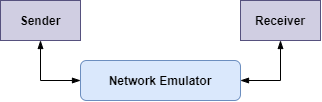
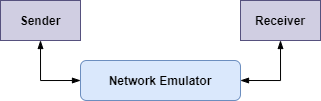
Styling.

diff --git a/projects/rdtProtocol.html b/projects/rdtProtocol.html
@@ -42,13 +42,13 @@
                 (Winter 2021) at
                 Waterloo.
             </p>
-            <p>In this assignment, I needed to implement a <strong>Reliable Data Transfer (RDT)</strong> protocol such
+            <p>In this assignment, I needed to implement a <strong class="keyword">Reliable Data Transfer (RDT)</strong>
+                protocol such
                 that a sender could use this protocol to faithfully transfer a text file to a receiver via an unreliable
                 network.</p>
-            <p>The programming language I used for this assignment is <strong>Java</strong>.<br>
+            <p>The programming language I used for this assignment is <strong class="keyword">Java</strong>.<br>
                 (I believe I was one of the few students, perhaps the only one, who used Java — most others used
-                Python…)
-            </p>
+                Python…)</p>
             <p>To implement and test this protocol, I had to write the following three programs:</p>
             <ul>
                 <li>Sender</li>
@@ -60,26 +60,25 @@
             <h3>Reliable Data Transfer (RDT) Protocol</h3>
             <p>The RDT protocol needs to:</p>
             <ul>
-                <li>Handle network errors (i.e., packet loss)</li>
-                <li>Packet Reordering</li>
-                <li>Duplicate packets</li>
+                <li>handle network errors (i.e., packet loss)</li>
+                <li>packet reordering</li>
+                <li>duplicate packets</li>
             </ul>
 
             <p>For simplicity, this protocol is unidirectional:</p>
             <ul>
-                <li>Text file data will only flow from the sender to the receiver</li>
-                <li>The <strong>acknowledgments (ACKs)</strong> will only flow from the receiver to the sender</li>
+                <li>Text file data will only flow from the sender to the receiver.</li>
+                <li>The <strong class="keyword">acknowledgments (ACKs)</strong> will only flow from the receiver to the
+                    sender.</li>
             </ul>
 
             <p>When the sender wants to send packets to the receiver, he/she will send them to the network emulator
                 instead of the receiver directly.<br>
                 Then, the network emulator will send those packets to the receiver.<br>
-                However, the network emulator may discard the packets randomly.
-            </p>
+                However, the network emulator may discard the packets randomly.</p>
             <p>Similarly, the receiver will send ACKs to the network emulator, the network emulator will then send those
                 ACKs to the sender.<br>
-                The network emulator will also discard those ACKs randomly.
-            </p>
+                The network emulator will also discard those ACKs randomly.</p>
             <img src="../img/RDTprotocol/RDT_1.png" class="center">
             <br>
 
@@ -99,13 +98,11 @@ String data;</pre>
             </ol>
 
             <p><code>seqnum</code> represents the sequence number of the packet.<br>
-                The first packet should have <code>seqnum = 0</code>.
-            </p>
+                The first packet should have <code>seqnum = 0</code>.</p>
 
-            <p><code>length</code>is the number of characters in the <code>data</code> field.<br>
+            <p><code>length</code> is the number of characters in the <code>data</code> field.<br>
                 The range of it is between 0 and 500 (inclusive).<br>
-                For ACK or EOT packet, the length should be 0.
-            </p>
+                For ACK or EOT packet, the length should be 0.</p>
 
             <p>To allow different programs to receive the same type of object, the <code>Packet</code> class needs to
                 implement the
@@ -115,7 +112,7 @@ String data;</pre>
             <p>To create a <code>Packet</code> object for a data packet, we do</p>
             <pre
                 class="prettyprint linenums lang-java">Packet packet = new Packet(int type, int seqnum, String data);</pre>
-            <br>
+
 
             <p>To create a <code>Packet</code> object for an ACK or EOT packet, we do</p>
             <pre class="prettyprint linenums lang-java">Packet packet = new Packet(int type, int seqnum);</pre>
@@ -134,9 +131,9 @@ String data;</pre>
                 class="prettyprint linenums lang-java">UDP udp = new UDP(String destIP, String destPort, String sourcePort, int timeout);</pre>
             <p>where</p>
             <ul>
-                <li><code>destIP</code> is the the destination IP address</li>
-                <li><code>destPort</code> is the port number used by the destination</li>
-                <li><code>sourcePort</code> is the port number used by the source</li>
+                <li><code>destIP</code> is the the destination IP address,</li>
+                <li><code>destPort</code> is the port number used by the destination,</li>
+                <li><code>sourcePort</code> is the port number used by the source, and</li>
                 <li><code>timeout</code> is the timeout of a packet (optional, default value is 0)</li>
             </ul>
 
@@ -147,16 +144,13 @@ String data;</pre>
             <p>If the IP address for the destination host cannot be found, an error will also be returned.</p>
 
             <p>After creating a <code>UDP</code> object, we can start the UDP connection between the source and the
-                destination.
-            </p>
+                destination.</p>
             <pre class="prettyprint linenums lang-java">udp.startConnection();</pre>
-            <br>
 
             <p>Then, we can start sending packets from the source to the destination or receiving packets from the
                 destination to the source.</p>
             <p>To send a packet, we do</p>
             <pre class="prettyprint linenums lang-java">udp.send(Packet packet);</pre>
-            <br>
 
             <p>When sending a <code>Packet</code> object, UDP will first convert it into an array of bytes.<br>
                 Then, the array of bytes will be encapsulated into a <code>DatagramPacket</code> object from the
@@ -166,7 +160,6 @@ String data;</pre>
 
             <p>To receive a packet, we do</p>
             <pre class="prettyprint linenums lang-java">Packet receivedPacket = udp.receive();</pre>
-            <br>
 
             <p>The <code>UDP</code> object will wait for a <code>DatagramPacket</code> object to arrive infinitely if
                 <code>timeout = 0</code>.<br>
@@ -199,13 +192,11 @@ String data;</pre>
 
             <p>Note that the RDT protocol is pipelined — meaning the sender program can send at most 30 packets
                 simultaneously.<br>
-                Thus, we need to create 30 threads and do multi-threading here.
-            </p>
+                Thus, we need to create 30 threads and do multi-threading here.</p>
 
             <p>Each thread will send one data packet and receive one ACK packet (or receive nothing if timeout).<br>
                 If the corresponding ACK packet is not received, the data packet will be re-transferred and reset the
-                timer.
-            </p>
+                timer.</p>
 
             <p>Note that, for example, if thread 1 sends a data packet with <code>seqnum = 1</code>, it may receive an
                 ACK packet with <code>seqnum &#8800; 1</code>.<br>
@@ -219,8 +210,9 @@ String data;</pre>
                 threads have finished their tasks.<br>
                 This allows the sender program to resend the data packet if the corresponding ACK packet does not arrive
                 within the timeout period.<br>
-                Moreover, this can ensure <strong>reliable transmission</strong> and <strong>congestion control</strong>
-                for the RDT protocol.</p>
+                Moreover, this can ensure <strong class="keyword">reliable transmission</strong> and
+                <strong class="keyword">congestion control</strong> for the RDT protocol.
+            </p>
 
             <p>Once all the data packets have been sent and all corresponding ACK packets have been received, the sender
                 program will send an EOT packet.<br>
@@ -229,19 +221,21 @@ String data;</pre>
             </p>
 
             <p>When the sender program sends out a packet, it will record the packet’s sequence number into a log file,
-                <code>seqnum.log</p>code>.</p>
+                <code>seqnum.log</code>.
+            </p>
 
-            <p>When the sender program receives an ACK packet, it will record the ACK packet’s sequence number into a log file, <code>ack.log</code>.
+            <p>When the sender program receives an ACK packet, it will record the ACK packet’s sequence number into a
+                log file, <code>ack.log</code>.
             </p>
             <br>
 
             <h3>Receiver Program</h3>
             <p>To execute the <code>receiver</code> program, we need the following command-line arguments:</p>
             <ul>
-                <li>The hostname for the network emulator</li>
-                <li>The UDP port number used by the network emulator to receive ACKs from the receiver</li>
-                <li>The UDP port number used by the receiver to receive data from the network emulator</li>
-                <li>The name of the file into which the received data is written</li>
+                <li>the hostname for the network emulator</li>
+                <li>the UDP port number used by the network emulator to receive ACKs from the receiver</li>
+                <li>the UDP port number used by the receiver to receive data from the network emulator</li>
+                <li>the name of the file into which the received data is written</li>
             </ul>
 
             <p>After executing the <code>receiver</code> program with those 4 arguments, the program will create a
@@ -272,14 +266,14 @@ String data;</pre>
             <h3>Network Emulator</h3>
             <p>To execute the <code>network emulator</code> program, we need the following command-line arguments:</p>
             <ul>
-                <li>The receiver’s network address</li>
-                <li>The receiver’s receiving UDP port number</li>
-                <li>The receiving UDP port number in the receiver direction</li>
-                <li>The sender’s network address</li>
-                <li>The sender’s receiving UDP port number</li>
-                <li>The receiving UDP port number in the sender direction</li>
-                <li>The packet discard probability</li>
-                <li>The verbose-mode</li>
+                <li>the receiver’s network address</li>
+                <li>the receiver’s receiving UDP port number</li>
+                <li>the receiving UDP port number in the receiver direction</li>
+                <li>the sender’s network address</li>
+                <li>the sender’s receiving UDP port number</li>
+                <li>the receiving UDP port number in the sender direction</li>
+                <li>the packet discard probability</li>
+                <li>the verbose-mode</li>
             </ul>
 
             <p>The verbose mode is either 0 or 1.<br>
@@ -312,17 +306,27 @@ String data;</pre>
             <br>
 
             <h3>Demo</h3>
-                <p>The following video is a demo of this project.</p>
+            <p>The following video is a demo of this project.</p>
 
-                <iframe width="560" height="315" class="center" src="https://www.youtube.com/embed/kp_RD6BCqKs" title="YouTube video player" frameborder="0" allow="accelerometer; autoplay; clipboard-write; encrypted-media; gyroscope; picture-in-picture" allowfullscreen></iframe>
+            <iframe class="center" src="https://www.youtube.com/embed/kp_RD6BCqKs" title="YouTube video player"
+                frameborder="0"
+                allow="accelerometer; autoplay; clipboard-write; encrypted-media; gyroscope; picture-in-picture"
+                allowfullscreen></iframe>
 
-                <p>In this demo, I run the <code>network emulator</code> program, the <code>receiver</code> program, and the <code>sender</code> program in the Waterloo CS Undergrad Environment (where the course professor and TAs test and mark my programs).</p>
-                <p>The left window is the <code>network emulator</code> program, the top right window is the <code>receiver</code> program, and the bottom right window is the <code>sender</code> program.</p>
-                <p>I run the <code>network emulator</code> program in the machine <code>ubuntu1804-010</code> and I run the other two programs in the machine <code>ubuntu1804-002</code>.</p>
-                <p>Note that in general, those three programs should be run on three different machines.<br>
-                    However, when I recorded this video (in May), only two machines were available.<br>
-                    But when I tested and submitted this project in March, those programs had run on three different machines for sure.
-                    </p>
+            <p>In this demo, I run the <code>network emulator</code> program, the <code>receiver</code> program, and the
+                <code>sender</code> program in the Waterloo CS Undergrad Environment (where the course professor and TAs
+                test and mark my programs).
+            </p>
+            <p>The left window is the <code>network emulator</code> program, the top right window is the
+                <code>receiver</code> program, and the bottom right window is the <code>sender</code> program.
+            </p>
+            <p>I run the <code>network emulator</code> program in the machine <code>ubuntu1804-010</code> and I run the
+                other two programs in the machine <code>ubuntu1804-002</code>.</p>
+            <p>Note that in general, those three programs should be run on three different machines.<br>
+                However, when I recorded this video (in May), only two machines were available.<br>
+                But when I tested and submitted this project in March, those programs had run on three different
+                machines for sure.
+            </p>
         </section>
 
         <footer id="footer">

diff --git a/css/style.css b/css/style.css
@@ -752,3 +752,16 @@ footer p {
 /* Shallow Water Animation **********************************/
 /************************************************************/
 
+/************************************************************/
+/* RDT Protocol *********************************************/
+#rdtProtocol iframe {
+  width: 560px;
+  height: 315px;
+}
+
+#rdtProtocol img {
+  width: 322px;
+  height: 102px;
+}
+/* RDT Protocol *********************************************/
+/************************************************************/
